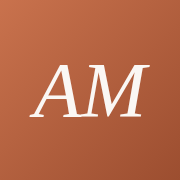
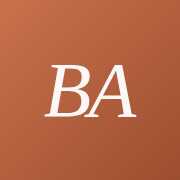
Rename masters to Валентина/Алла (no surnames), simplify copy further
- Team order: Валентина first, Алла second, throughout (header, team
  section, booking-form master picker, reviews, favicon/OG monogram)
- Dropped surname initials everywhere
- Removed 'стиліст' and other formal/salesy job-title wording — plain
  'Перукар' instead
- Hero copy now states plainly who they serve: 'Стрижемо всіх — дітей,
  бабусь і дідусів, чоловіків і жінок'
- Team bios dropped 'сертифікований колорист' / 'преміум-класу' /
  'провідних майстрів України та Європи' claims for the same reason as
  the earlier hero de-hype pass — kept only the real 15+ years line
- Regenerated favicon.svg / apple-touch-icon.png / og-image.png / 404.html
  with the new ВА monogram and names

Changed region(s): [[0.1667, 0.3611, 0.8333, 0.6667]]

diff --git a/index.html b/index.html
@@ -3,7 +3,7 @@
 <head>
 <meta charset="UTF-8">
 <meta name="viewport" content="width=device-width, initial-scale=1.0">
-<title>Алла та Марина — Перукарі-стилісти</title>
+<title>Валентина та Алла — Перукарі</title>
 <meta name="description" content="Стрижки, фарбування, укладки. Два майстри, запис онлайн.">
 
 <!-- Favicon -->
@@ -13,8 +13,8 @@
 
 <!-- Open Graph / соцмережі -->
 <meta property="og:type" content="website">
-<meta property="og:site_name" content="Алла та Марина">
-<meta property="og:title" content="Алла та Марина — Перукарі-стилісти">
+<meta property="og:site_name" content="Валентина та Алла">
+<meta property="og:title" content="Валентина та Алла — Перукарі">
 <meta property="og:description" content="Стрижки, фарбування та укладки з увагою до деталей. 15+ років досвіду, запис онлайн.">
 <meta property="og:image" content="https://sudak666.github.io/hairdresser-site/og-image.png">
 <meta property="og:image:width" content="1200">
@@ -22,7 +22,7 @@
 <meta property="og:url" content="https://sudak666.github.io/hairdresser-site/">
 <meta property="og:locale" content="uk_UA">
 <meta name="twitter:card" content="summary_large_image">
-<meta name="twitter:title" content="Алла та Марина — Перукарі-стилісти">
+<meta name="twitter:title" content="Валентина та Алла — Перукарі">
 <meta name="twitter:description" content="Стрижки, фарбування та укладки з увагою до деталей. 15+ років досвіду, запис онлайн.">
 <meta name="twitter:image" content="https://sudak666.github.io/hairdresser-site/og-image.png">
 
@@ -36,7 +36,7 @@
 {
   "@context": "https://schema.org",
   "@type": "HairSalon",
-  "name": "Алла та Марина — Перукарі-стилісти",
+  "name": "Валентина та Алла — Перукарі",
   "image": "https://sudak666.github.io/hairdresser-site/og-image.png",
   "url": "https://sudak666.github.io/hairdresser-site/",
   "priceRange": "від 350 ₴",
@@ -63,7 +63,7 @@
 
 <header class="site-header" id="top">
   <div class="wrap header-inner">
-    <a class="logo" href="#top">Алла&nbsp;&amp;&nbsp;Марина</a>
+    <a class="logo" href="#top">Валентина&nbsp;&amp;&nbsp;Алла</a>
     <nav class="nav" id="nav">
       <a href="#services">Послуги</a>
       <a href="#gallery">Роботи</a>
@@ -86,7 +86,7 @@
     <div class="wrap hero-inner">
       <p class="eyebrow">Перукарі · [Місто]</p>
       <h1>Зачіска, яка&nbsp;<em>говорить</em> за&nbsp;вас</h1>
-      <p class="lead">Стрижки, фарбування та укладки з увагою до деталей. Затишна перукарня для кожного — підберемо форму й колір під вашу зовнішність і спосіб життя.</p>
+      <p class="lead">Стрижки, фарбування та укладки з увагою до деталей. Стрижемо всіх — дітей, бабусь і дідусів, чоловіків і жінок.</p>
       <div class="hero-actions">
         <a class="btn btn-primary" href="#booking">Записатись онлайн</a>
         <a class="btn btn-ghost" href="#gallery">Наші роботи</a>
@@ -161,29 +161,27 @@
       <div class="team-grid">
 
         <div class="team-card">
-          <div class="team-photo ph"><svg viewBox="0 0 24 24" fill="none" stroke="currentColor" stroke-width="1.5"><circle cx="12" cy="8" r="4"/><path d="M4 21c0-4.4 3.6-8 8-8s8 3.6 8 8"/></svg><span>Фото Алли</span></div>
+          <div class="team-photo ph"><svg viewBox="0 0 24 24" fill="none" stroke="currentColor" stroke-width="1.5"><circle cx="12" cy="8" r="4"/><path d="M4 21c0-4.4 3.6-8 8-8s8 3.6 8 8"/></svg><span>Фото Валентини</span></div>
           <div class="team-text">
-            <h3>Алла А.</h3>
-            <p class="team-role">Перукар-стиліст</p>
-            <p>Спеціалізується на жіночих стрижках, складному фарбуванні та відновлюючому догляді за волоссям. Постійно навчається у провідних майстрів України та Європи, щоб пропонувати клієнткам сучасні техніки.</p>
+            <h3>Валентина</h3>
+            <p class="team-role">Перукар</p>
+            <p>Стрижки, фарбування, укладки та догляд за волоссям. Приймає всіх — дітей, бабусь і дідусів, чоловіків і жінок, кожному приділить час і увагу.</p>
             <ul class="about-list">
-              <li>Сертифікований колорист</li>
               <li>15+ років практики та щирої любові до справи</li>
-              <li>Професійна косметика преміум-класу</li>
+              <li>Багато постійних клієнтів</li>
             </ul>
           </div>
         </div>
 
         <div class="team-card">
-          <div class="team-photo ph"><svg viewBox="0 0 24 24" fill="none" stroke="currentColor" stroke-width="1.5"><circle cx="12" cy="8" r="4"/><path d="M4 21c0-4.4 3.6-8 8-8s8 3.6 8 8"/></svg><span>Фото Марини</span></div>
+          <div class="team-photo ph"><svg viewBox="0 0 24 24" fill="none" stroke="currentColor" stroke-width="1.5"><circle cx="12" cy="8" r="4"/><path d="M4 21c0-4.4 3.6-8 8-8s8 3.6 8 8"/></svg><span>Фото Алли</span></div>
           <div class="team-text">
-            <h3>Марина М.</h3>
-            <p class="team-role">Перукар-стиліст</p>
-            <p>Ті самі напрямки роботи — стрижки, фарбування, укладки та догляд. Індивідуальний підхід до кожної клієнтки, підбір форми й кольору під вашу зовнішність.</p>
+            <h3>Алла</h3>
+            <p class="team-role">Перукар</p>
+            <p>Ті самі напрямки роботи — стрижки, фарбування, укладки та догляд. Уважна до побажань кожного клієнта.</p>
             <ul class="about-list">
-              <li>Сертифікований колорист</li>
               <li>15+ років практики та щирої любові до справи</li>
-              <li>Професійна косметика преміум-класу</li>
+              <li>Багато постійних клієнтів</li>
             </ul>
           </div>
         </div>
@@ -205,7 +203,7 @@
         </div>
         <div class="review-card">
           <div class="review-stars">★★★★★</div>
-          <p>«Марина зробила балаяж мрії! Записалась онлайн за 2 хвилини, все чітко і без нервів».</p>
+          <p>«Валентина зробила балаяж мрії! Записалась онлайн за 2 хвилини, все чітко і без нервів».</p>
           <div class="review-author">— Юлія, балаяж</div>
         </div>
         <div class="review-card">
@@ -242,8 +240,8 @@
             <div class="custom-select" data-placeholder="Оберіть майстра">
               <select class="cs-native" name="master" tabindex="-1" aria-hidden="true">
                 <option value="" disabled selected>Оберіть майстра</option>
-                <option>Алла А.</option>
-                <option>Марина М.</option>
+                <option>Валентина</option>
+                <option>Алла</option>
                 <option>Без різниці</option>
               </select>
               <button type="button" class="cs-trigger" aria-haspopup="listbox" aria-expanded="false">
@@ -345,7 +343,7 @@
 
 <footer class="site-footer">
   <div class="wrap footer-inner">
-    <span>© <span id="year"></span> Алла та Марина</span>
+    <span>© <span id="year"></span> Валентина та Алла</span>
     <span class="footer-made">Зроблено з любов'ю ♥</span>
   </div>
 </footer>

diff --git a/404.html b/404.html
@@ -3,7 +3,7 @@
 <head>
 <meta charset="UTF-8">
 <meta name="viewport" content="width=device-width, initial-scale=1.0">
-<title>Сторінку не знайдено — Алла та Марина</title>
+<title>Сторінку не знайдено — Валентина та Алла</title>
 <link rel="icon" href="favicon.svg" type="image/svg+xml">
 <meta name="theme-color" content="#b6603f">
 <link rel="preconnect" href="https://fonts.googleapis.com">
@@ -31,7 +31,7 @@
 </head>
 <body>
   <div class="notfound">
-    <div class="notfound-badge">AM</div>
+    <div class="notfound-badge">ВА</div>
     <h1>Сторінку не знайдено</h1>
     <p>Схоже, такої сторінки не існує або її було переміщено. Повертайтесь на головну — там усе на місці.</p>
     <a class="btn btn-primary" href="/hairdresser-site/">На головну</a>
